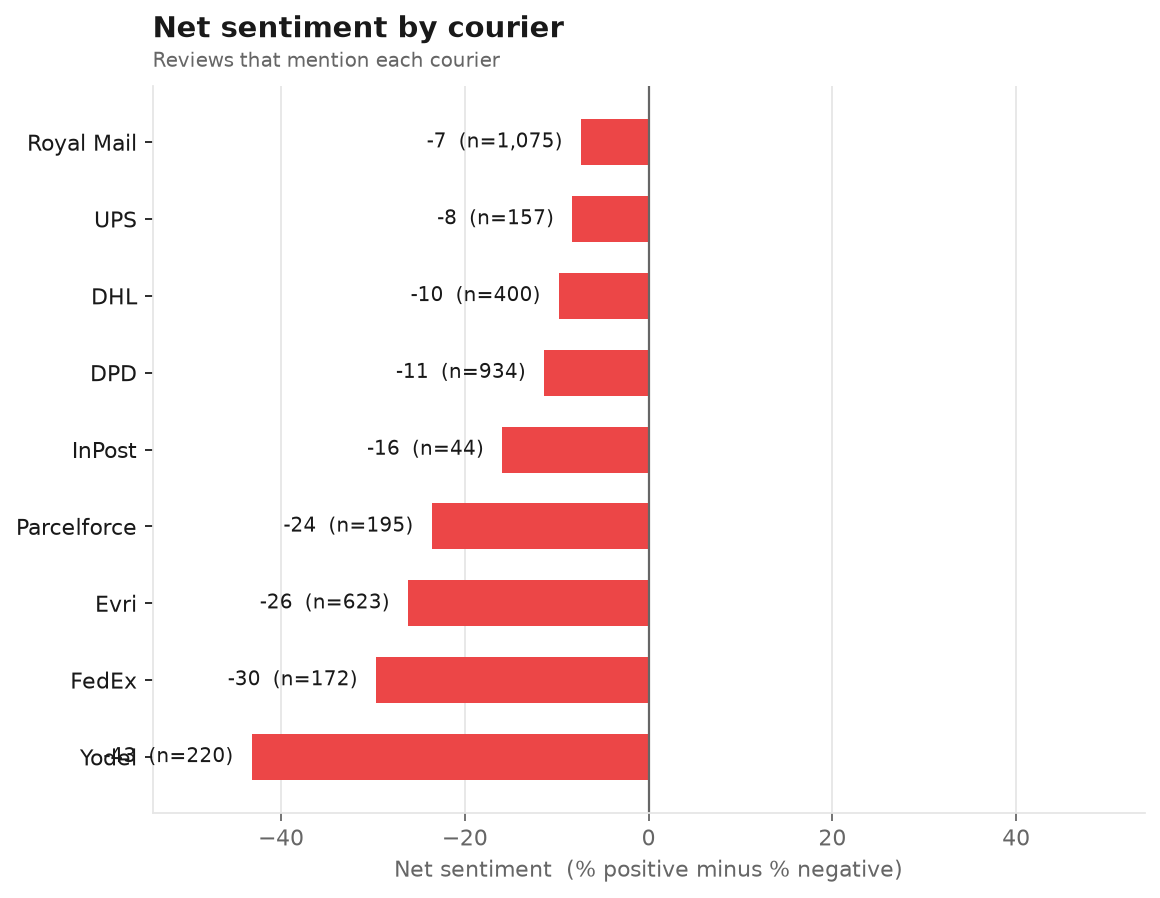
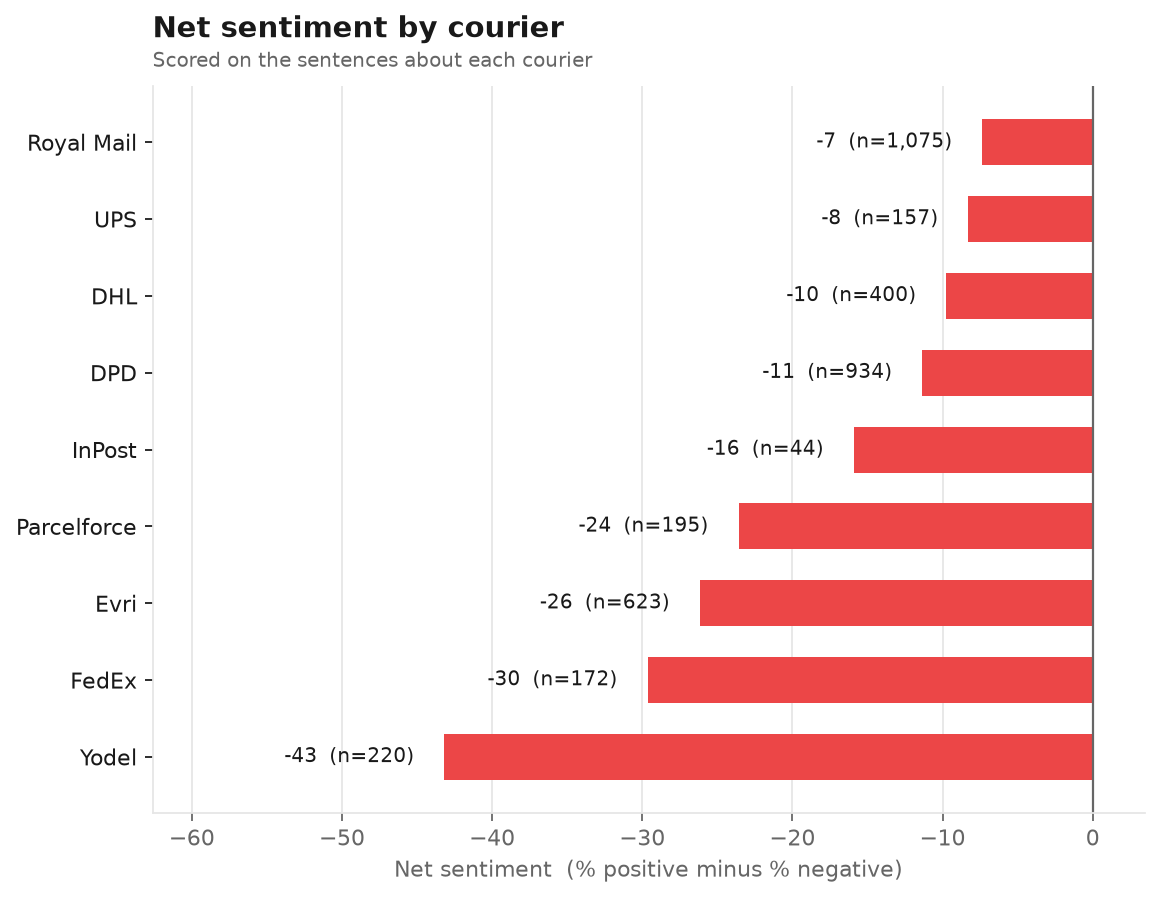
Add real results

diff --git a/src/shipment_analysis/plots.py b/src/shipment_analysis/plots.py
@@ -50,8 +50,11 @@ def courier_net_sentiment(summary: pd.DataFrame, path: Path):
     colours = [BLUE if v >= 0 else RED for v in s["net_sentiment"]]
     ax.barh(s["courier"], s["net_sentiment"], color=colours, height=0.6)
     ax.axvline(0, color=TEXT_2, lw=1)
-    lim = max(10, s["net_sentiment"].abs().max() * 1.25)
-    ax.set_xlim(-lim, lim)
+    # Leave room on each side for the value labels, and only show the positive
+    # side when there is something there (avoids a half-empty chart)
+    lo, hi = s["net_sentiment"].min(), s["net_sentiment"].max()
+    span = max(10, hi - min(lo, 0), max(hi, 0) - lo)
+    ax.set_xlim(min(0, lo) - 0.45 * span, max(0, hi) + 0.45 * span if hi > 0 else 0.08 * span)
     for y, (v, n) in enumerate(zip(s["net_sentiment"], s["n_reviews"])):
         ax.text(v + (2 if v >= 0 else -2), y, f"{v:+.0f}  (n={n:,})", va="center",
                 ha="left" if v >= 0 else "right", color=TEXT, fontsize=9)
@@ -59,7 +62,7 @@ def courier_net_sentiment(summary: pd.DataFrame, path: Path):
     ax.grid(axis="x", color=GRID, lw=0.8)
     ax.set_axisbelow(True)
     ax.set_title("Net sentiment by courier", pad=22)
-    _subtitle(ax, "Reviews that mention each courier")
+    _subtitle(ax, "Scored on the sentences about each courier")
     fig.savefig(path)
     plt.close(fig)
 

diff --git a/src/shipment_analysis/topics.py b/src/shipment_analysis/topics.py
@@ -19,6 +19,7 @@ DOMAIN_STOP_WORDS = {
     "deliver", "service", "company", "courier", "couriers", "item", "items", "just", "got", "get",
     "im", "ive", "dont", "didnt", "wasnt", "youre", "theyre", "cant", "wont", "said", "told", "time",
     "day", "days", "today", "yesterday", "week", "really", "use", "used", "using", "thank", "thanks",
+    "force", "let", "did", "like", "sent", "send", "say", "saying", "went", "came", "come", "took",
 }
 STOP_WORDS = sorted(ENGLISH_STOP_WORDS | DOMAIN_STOP_WORDS)
 

diff --git a/README.md b/README.md
@@ -10,10 +10,6 @@ read these reviews most accurately.
 It covers Evri (and Hermes), DPD, Royal Mail, Yodel, Amazon Logistics, DHL, Parcelforce, InPost,
 UPS and FedEx.
 
-> **Note on the charts below:** they come from a small **synthetic** demo file
-> (`data/sample/demo_reviews_synthetic.csv`) so the repo runs out of the box. The numbers are made up.
-> Real findings come from running the pipeline on the Kaggle data (see *Quick start*).
-
 ## What it does
 
 | Step | How |
@@ -27,12 +23,49 @@ UPS and FedEx.
 | Evaluation | Compares every model against the reviewer's own star rating (accuracy, macro F1, confusion matrix) |
 | Outputs | Clean CSVs, six charts, a `summary.md`, and an interactive Streamlit dashboard |
 
-## Charts (demo data)
+## Results
 
-| | |
-|---|---|
-| ![Net sentiment](reports/demo/figures/01_courier_net_sentiment.png) | ![Aspect heatmap](reports/demo/figures/02_aspect_heatmap.png) |
-| ![Complaint aspects](reports/demo/figures/03_negative_aspects.png) | ![Model comparison](reports/demo/figures/04_model_comparison.png) |
+Run on the [Trustpilot Reviews 123k](https://www.kaggle.com/datasets/jerassy/trustpilot-reviews-123k) Kaggle
+dataset: **3,592 reviews** that name at least one courier.
+
+![Net sentiment by courier](reports/full/figures/01_courier_net_sentiment.png)
+
+| Courier | Reviews | % negative | Net sentiment (courier sentences) | Net sentiment (whole review) |
+|---|---:|---:|---:|---:|
+| Yodel | 220 | 65% | **-43** | -28 |
+| FedEx | 172 | 59% | **-30** | -8 |
+| Evri | 623 | 56% | **-26** | -10 |
+| Parcelforce | 195 | 54% | **-24** | +4 |
+| InPost | 44 | 50% | **-16** | -18 |
+| DPD | 934 | 49% | **-11** | -8 |
+| DHL | 400 | 47% | **-10** | +4 |
+| UPS | 157 | 48% | **-8** | +3 |
+| Royal Mail | 1,075 | 46% | **-7** | +4 |
+
+**What stood out**
+
+* **Scoring the whole review hides the courier problem.** Most of these reviews are on shops' pages, and
+  happy comments about the product pull the score up. Once only the sentences about the courier are scored,
+  Parcelforce drops from +4 to -24 and FedEx from -8 to -30. Every courier ends up net negative.
+* **Yodel comes out worst by a clear margin** (-43). It's also the worst on lost parcels and parcel
+  condition (heatmap below).
+* **Royal Mail, UPS, DHL and DPD form a "least bad" group**, between -7 and -11.
+* **Parcelforce's weak spot is lost parcels** (-0.47, the most negative cell in the heatmap).
+* **Speed, customer service and tracking** are the three most common complaints. The complaint themes also
+  include a clear Christmas cluster, plus parcels sent to the wrong address and parcels left outside.
+
+![Aspect heatmap](reports/full/figures/02_aspect_heatmap.png)
+
+**Read these with care**
+
+* People mostly name the courier when something has gone wrong, so the absolute numbers lean negative.
+  The *ranking* between couriers is more meaningful than any single score.
+* InPost has only 44 reviews, so treat its position as a rough guide.
+* The model-vs-stars agreement (about 55%) is low because the stars rate the *shop*, not the courier.
+  A hand-labelled set of courier sentences is the next step for a proper accuracy test.
+
+The repo also includes a synthetic demo file (`data/sample/`) so anyone can run the pipeline without
+downloading the data. Its outputs in `reports/demo/` are made up.
 
 ## Quick start
 
@@ -114,7 +147,7 @@ A GPU helps but isn't required. Use `--sample 5000` for a quicker first run.
 
 * Courier detection is keyword based. A review naming two couriers counts for both.
 * Aspect keywords are hand-written. `aspect_sentences.csv` makes misses easy to spot and extend.
-* Next ideas: hand-label 300 reviews for a proper test set, fine-tune a small transformer on courier
+* Next ideas: hand-label 300 courier sentences for a proper test set, fine-tune a small transformer on courier
   reviews, and add a Power BI version of the dashboard.
 
 ## Version history

diff --git a/reports/full/summary.md b/reports/full/summary.md
@@ -36,18 +36,18 @@ Net sentiment is scored on the sentences about each courier. 'Whole review' scor
 
 ## Complaint themes
 
-- (27%) lost, customer, refund, problem, sent, arrive, took, send
-- (19%) received, tracking, email, number, saying, tracking number, december, received email
-- (18%) left, door, house, driver, box, did, leave, outside
-- (17%) arrived, late, unfortunately, arrived late, damaged, failed, christmas, product
-- (11%) good, let, force, unfortunately, product, fault, communication, experience
-- (8%) address, wrong, wrong address, correct, delivering, correct address, force, sent
+- (41%) arrived, late, failed, problem, unfortunately, poor, arrive, damaged
+- (16%) left, door, house, driver, leave, box, outside, bell
+- (15%) lost, customer, refund, replacement, post, christmas, wait, money
+- (14%) received, tracking, email, number, tracking number, december, received email, response
+- (8%) address, wrong, wrong address, correct, delivering, correct address, refund, house
+- (7%) good, product, fault, probably, price, communication, completely, products
 
 ## Praise themes
 
-- (37%) customer, did, like, left, address, issue, box, arrive
-- (16%) arrived, excellent, quickly, packed, condition, helpful, packaged, hours
-- (15%) tracking, number, tracking number, received, email, information, sent, provided
-- (14%) great, product, products, price, let, great price, quick, quality
-- (12%) good, let, easy, good price, price, good quality, late, quality
-- (6%) fault, box, expected, happy, despite, perfect, better, attempt
+- (52%) customer, received, left, address, issue, email, post, paid
+- (15%) arrived, excellent, quickly, packed, condition, packaged, helpful, free
+- (10%) good, easy, good price, price, product, good quality, late, good customer
+- (9%) great, product, products, price, quality, great price, quick, selection
+- (9%) tracking, number, tracking number, received, email, information, provided, track
+- (5%) fault, box, despite, expected, happy, better, perfect, attempt
